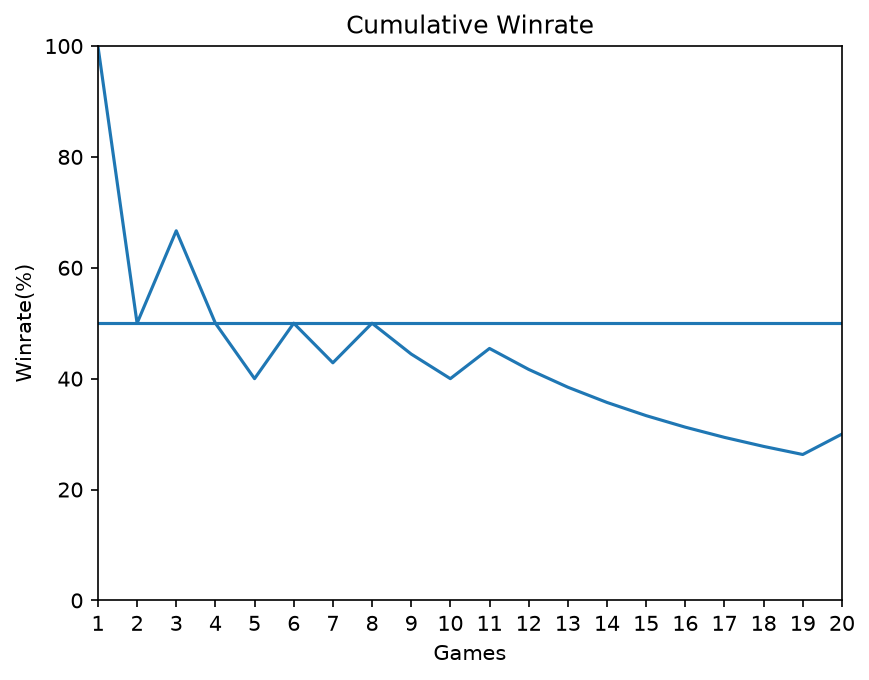
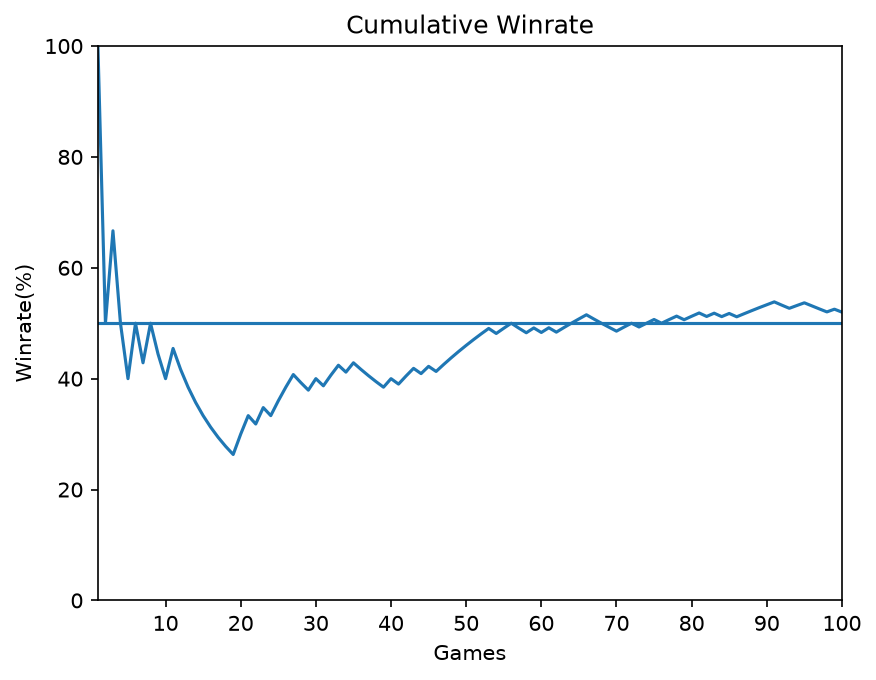
fixing charts

diff --git a/charts.py b/charts.py
@@ -36,7 +36,7 @@ def plot_cumulative_wr(df, max_games=None):
     ax.xaxis.set_major_locator(MultipleLocator(1))
 
     plt.savefig('output/cumulative_winrate.png', dpi=150, bbox_inches='tight')
-    plt.show()
+    # plt.show()
     plt.close(fig)
 
 import matplotlib.pyplot as plt
@@ -74,7 +74,7 @@ def plot_cumulative_wr(df, max_games=None):
     ax.set_xlim(1, max_games)
     ax.set_ylim(0,100)
 
-    ax.xaxis.set_major_locator(MultipleLocator(1))
+    ax.xaxis.set_major_locator(MultipleLocator(10))
 
     plt.savefig('output/cumulative_winrate.png', dpi=150, bbox_inches='tight')
     # plt.show()
@@ -86,8 +86,8 @@ def plot_kda(df, max_games=None):
     df_plot = df.head(max_games) if max_games else df
     avg_kda = df_plot.kda.mean()
 
-    ax.scatter(df.index+1, df.kda)
-    ax.plot(df.index+1, df.kda)
+    ax.scatter(df_plot.index+1, df_plot.kda)
+    ax.plot(df_plot.index+1, df_plot.kda)
     ax.axhline(avg_kda, label=f"Average KDA: {avg_kda:.2f}")
 
     ax.set_title("KDA per Match")
@@ -107,23 +107,22 @@ def plot_kda(df, max_games=None):
 def plot_weekly(df):
     fig, ax = plt.subplots()
 
-    ax.bar(df.week, df.winrate)
+    week_label = df.week.astype(str) + ' (' + df.games.astype(str) + ')'
+    bars = ax.bar(week_label, df.winrate)
 
     ax.set_title("Weekly Winrate")
     ax.set_xlabel("Week")
     ax.set_ylabel("Winrate (%)")
 
     ax.set_ylim(0, 110)
-    ax.axhline(y=50)
-
+    ax.axhline(y=50, color='gray', linestyle='--')
 
     plt.xticks(rotation=45, ha='right')
-    bars = ax.bar(df.week, df.winrate)
-    ax.bar_label(bars, padding=3)
+    ax.bar_label(bars, padding=3, fmt='%.1f')
 
     plt.tight_layout()
     plt.savefig('output/weekly.png', dpi=150, bbox_inches='tight')
-    # plt.show()
+    plt.show()
     plt.close(fig)
 
 def plot_side_winrate(df):
@@ -144,5 +143,5 @@ def plot_side_winrate(df):
 
     plt.tight_layout()
     plt.savefig('output/side_winrate.png', dpi=150, bbox_inches='tight')
-    plt.show()
+    # plt.show()
     plt.close(fig)

diff --git a/main.py b/main.py
@@ -66,7 +66,7 @@ if __name__ == "__main__":
 
 
     heroes_chart = charts.plot_hero_winrate(df_heroes)
-    cumulative_chart = charts.plot_cumulative_wr(df_cumulative, 20)
+    cumulative_chart = charts.plot_cumulative_wr(df_cumulative, 100)
     kda_chart = charts.plot_kda(df_matches, 20)
     weekly_chart = charts.plot_weekly(df_weekly)
     side_wr_chart = charts.plot_side_winrate(df_side_wr)
